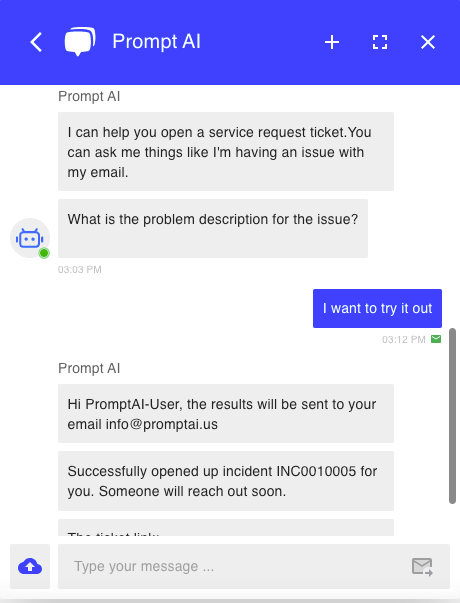
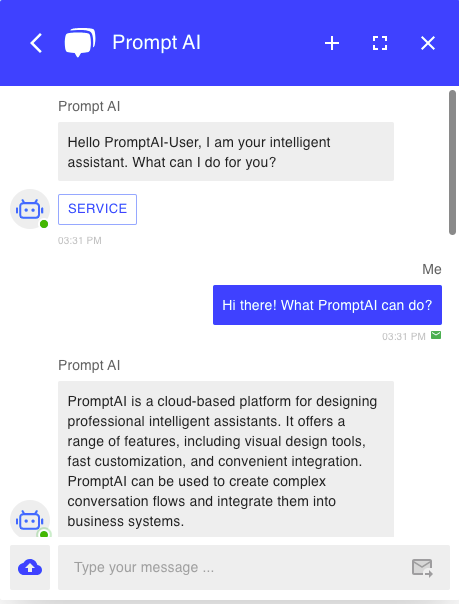
1、finish quick start of flow

diff --git a/docs/quick_start/flow.md b/docs/quick_start/flow.md
@@ -54,11 +54,15 @@ Service flow 可收集用户问题，并自动生成工单。
 ## 对话
 实现目标效果：
 - 1、登录用户在欢迎语中展示`name`：PromptAI-User
-- 2、提交工单是未询问`email`, 提交后展示自动填充的`info@promptai.us`
+- 2、点击Fallback下方的`Service`按钮可直接提交工单
+- 3、提交工单是未重复询问`email`, 提交后展示自动填充的`info@promptai.us`
 
 <table>
   <tr>
-    <td><img src="/assets/images/quick_start/flow-07.png" alt=""></td>
     <td><img src="/assets/images/quick_start/flow-06.png" alt=""></td>
+    <td><img src="/assets/images/quick_start/flow-07.png" alt=""></td>
+  </tr>
+  <tr>
+     <td><img src="/assets/images/quick_start/flow-08.png" alt=""></td>
   </tr>
 </table>
